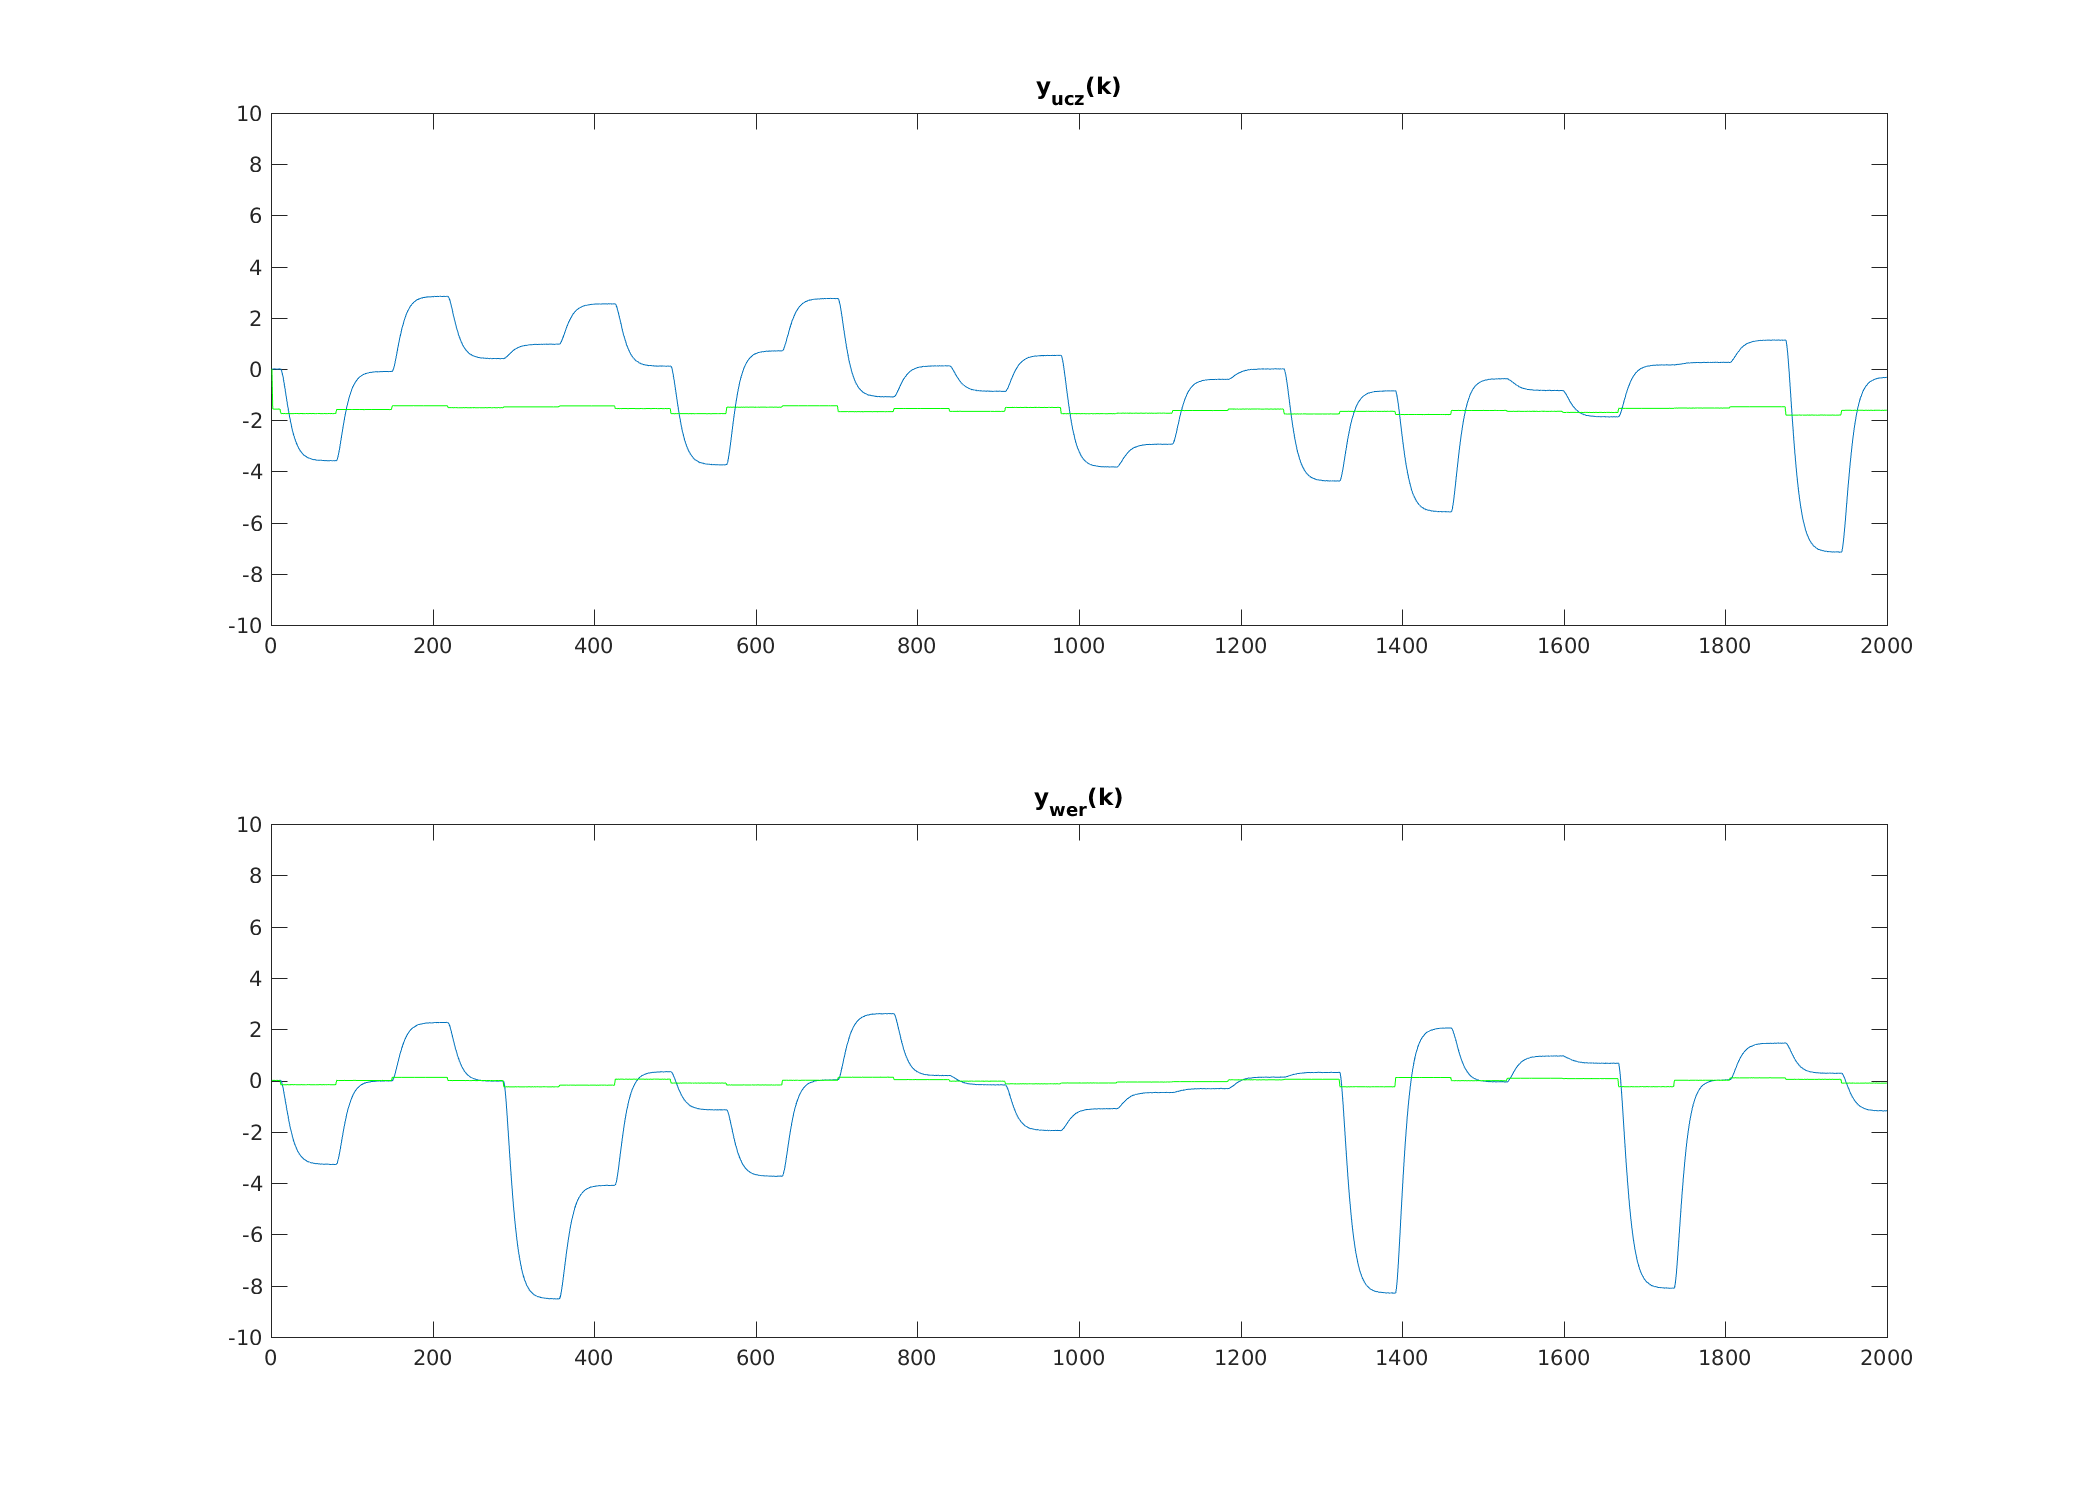
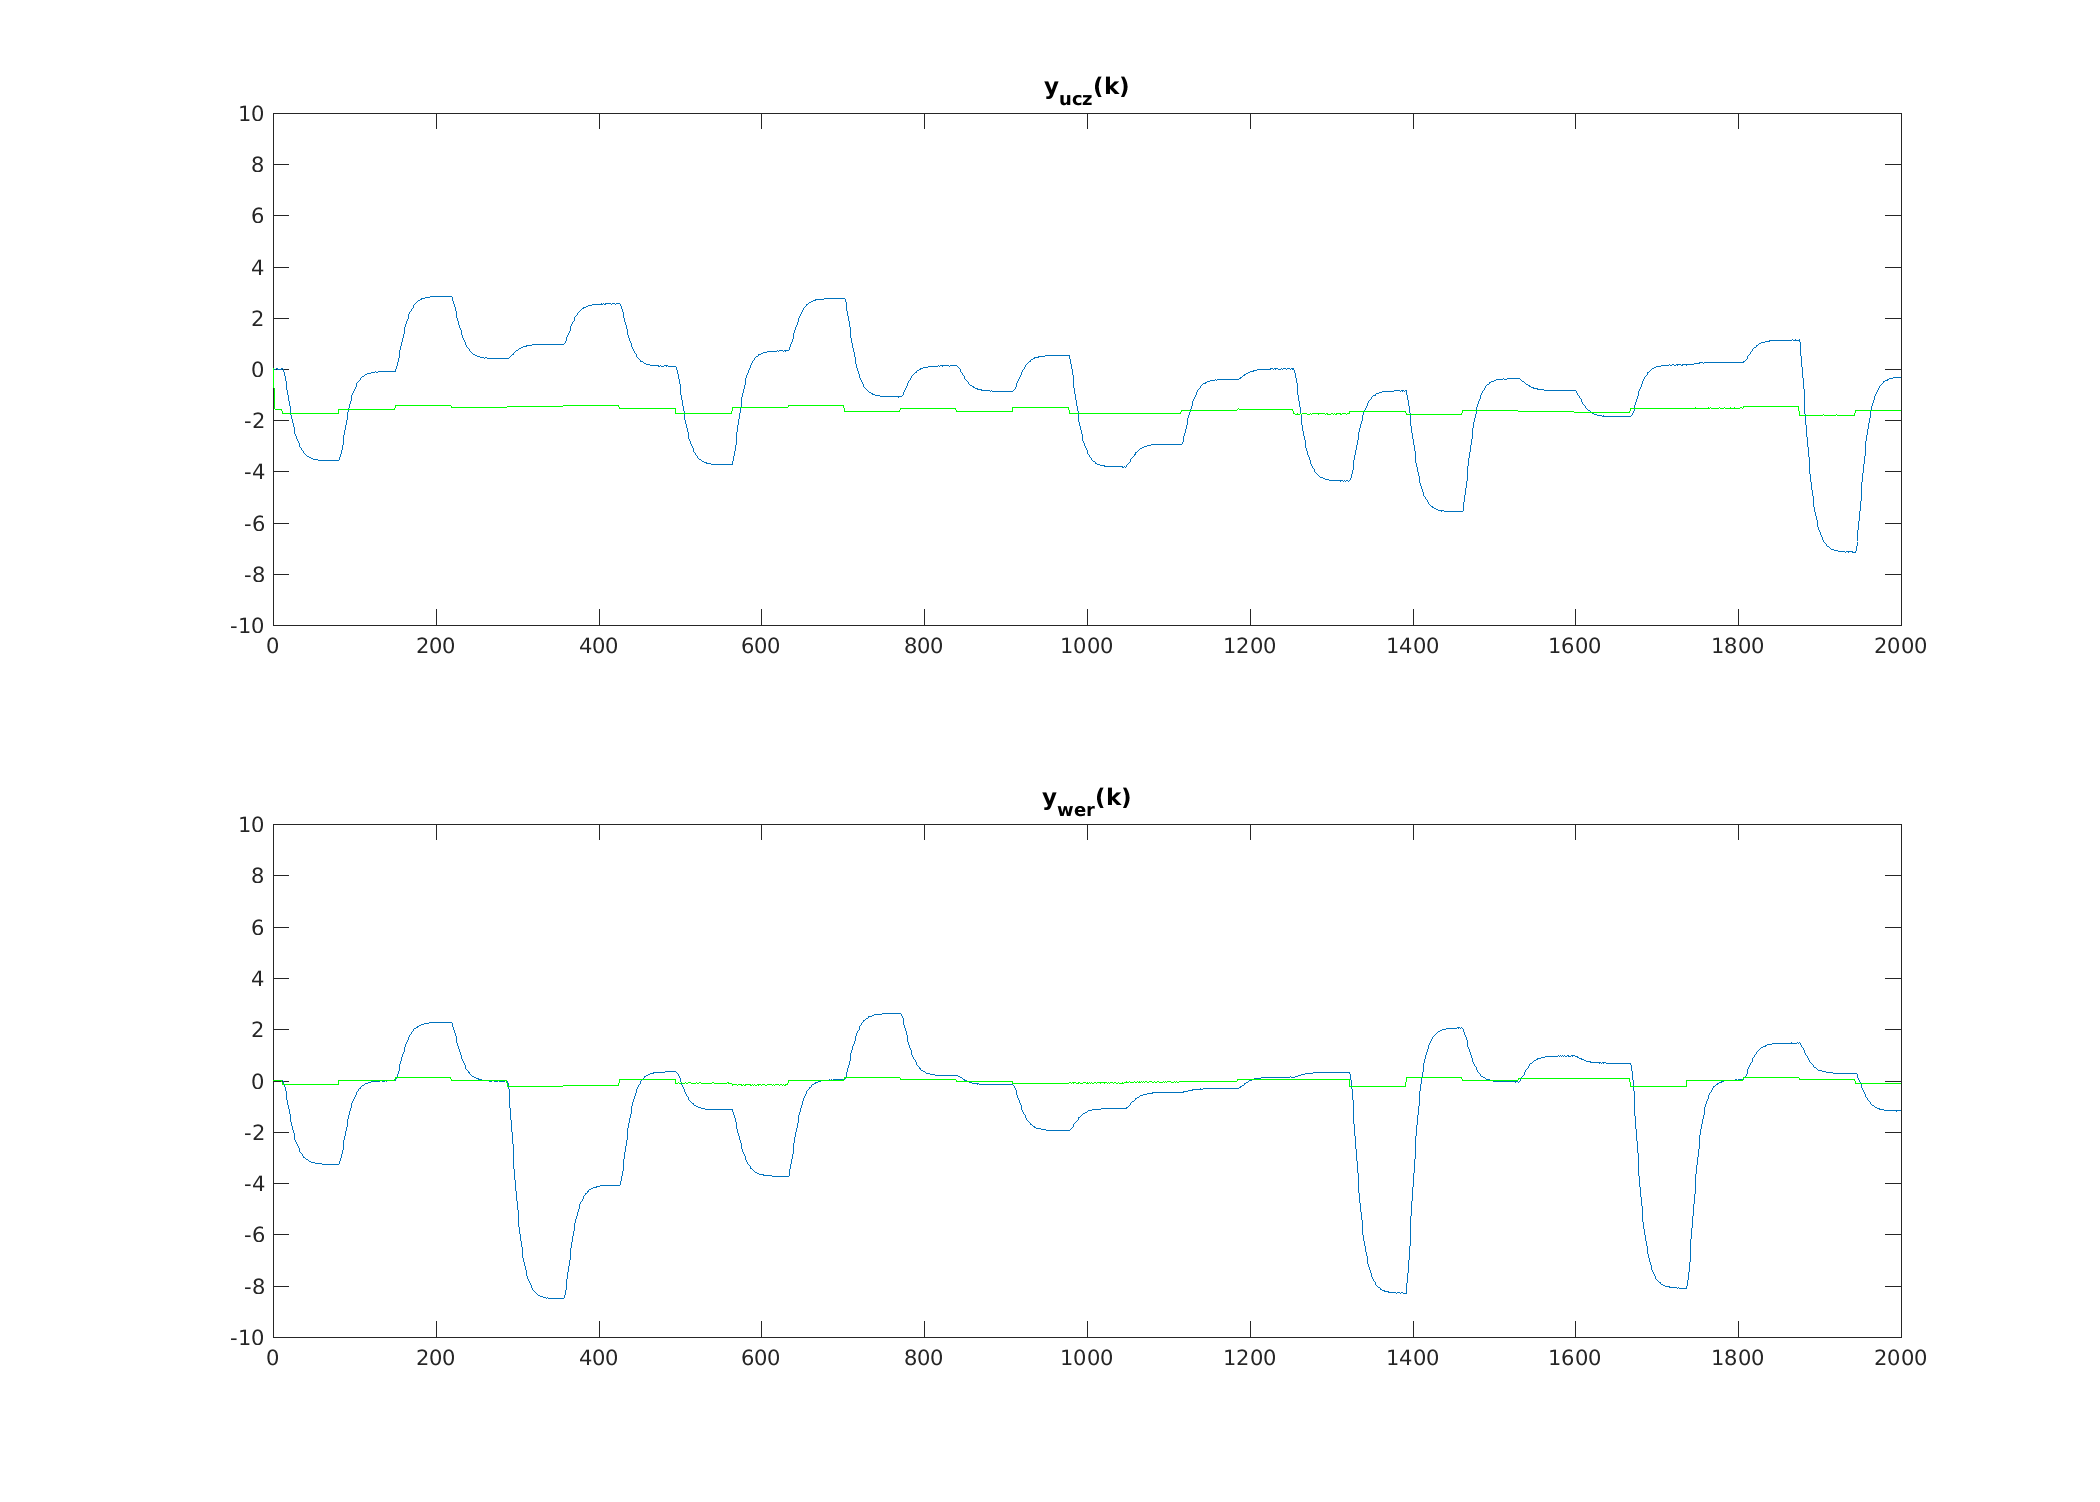
a takie tam krzaczki ale już coś widać

Changed region(s): [[0.3431, 0.8881, 0.3743, 0.9188]]

diff --git a/2/napalowo.m b/2/napalowo.m
@@ -1,0 +1,76 @@
+%% inicjalizacja
+clear all; 
+x0=10;
+y0=10;
+width=1000;
+height=800;
+fid = fopen('bledy_dyn','w+'); 
+%% import danych
+ucz = importdata('danedynucz9.txt');
+u_ucz = ucz(:,1);
+y_ucz = ucz(:,2);
+wer = importdata('danedynwer9.txt');
+u_wer = wer(:,1);
+y_wer = wer(:,2);
+lenght=size(wer);
+P = lenght(1); %liczba próbek
+kk = 1:P;
+%% Modele o różnych stopniach wielomianu
+
+k_pocz = 4; % chwila, od której rozpoczynamy identyfikacje
+
+        ymod_ucz = zeros(P,1);
+        ymod_wer = zeros(P,1);
+        Y = y_ucz(k_pocz:P);
+        ymod_ucz(1:k_pocz) = y_ucz(1:k_pocz);
+        ymod_wer(1:k_pocz) = y_wer(1:k_pocz);
+        D = 3; 
+
+
+
+        %uczenie modelu
+             
+        M(:,:)= [u_ucz(k_pocz-1:P-1) u_ucz(k_pocz-2:P-2) u_ucz(k_pocz-3:P-3) y_ucz(k_pocz-1:P-1) y_ucz(k_pocz-2:P-2) y_ucz(k_pocz-3:P-3)];
+
+        w=M\Y;
+        
+        %rekurencyjnie
+        
+        ymod_ucz = zeros(P-D,1);
+        ymod_wer = zeros(P-D,1); 
+        
+        ymod_ucz(1:D) = u_ucz(1:D);
+        ymod_wer(1:D) = y_wer(1:D);
+
+        past_ucz = zeros(D,1);
+        past_wer = zeros(D,1);
+        
+        for k=D+1:P
+ 
+            m_ucz(1,:) = [u_ucz(k-1) u_ucz(k-2) u_ucz(k-3) past_ucz(1) past_ucz(2) past_ucz(3)];
+            m_wer(1,:) = [u_wer(k-1) u_wer(k-2) u_wer(k-3) past_wer(1) past_wer(2) past_wer(3)];
+            
+            ymod_ucz(k)=m_ucz*w;
+            ymod_wer(k)=m_wer*w;
+            past_ucz = [ymod_ucz(k);past_ucz((1:numel(past_ucz)-1))];
+            past_wer = [ymod_wer(k);past_wer((1:numel(past_wer)-1))];
+        end
+        
+         h = figure;
+        set(h,'units','points','position',[x0,y0,width,height]);
+        subplot(2,1,1)
+        plot(kk,y_ucz)
+        ylim([-10 10])
+        hold on
+        plot(kk,ymod_ucz,'g')
+        ylim([-10 10])
+        title('y_{ucz}(k)');
+        subplot(2,1,2);
+        plot(kk,y_wer)
+        ylim([-10 10])
+        hold on
+        plot(kk,ymod_wer,'g')
+        ylim([-10 10])
+        title('y_{wer}(k)');
+        name =  ['dane_dyn_mod_rek_napalowo_D_' num2str(D) 'N_' num2str(N) '.png'];
+        saveas(h,name,'png');

diff --git a/2/dynamiczne.m b/2/dynamiczne.m
@@ -22,7 +22,7 @@ k_pocz = 4; % chwila, od której rozpoczynamy identyfikacje
 
 for s=3:3
     D = s; 
-    for t=4:4
+    for t=1:1
         N = t; 
         ymod_ucz = zeros(P,1);
         ymod_wer = zeros(P,1);
@@ -32,7 +32,7 @@ for s=3:3
         
 
 
-        % uczenie modelu
+        %uczenie modelu
         c=1; %kolumna
         for i=1:D         
             for j=1:N
@@ -43,9 +43,9 @@ for s=3:3
         end
         w=M\Y;
 
-%         % sprawdzenie modelu
+%         %sprawdzenie modelu
 % 
-%         % bez rekurencji
+%         bez rekurencji
 %         c=1;
 %         for  i=1:D        
 %             for j=1:N
@@ -89,7 +89,7 @@ for s=3:3
         % z rekurencja
         
         ymod_ucz = zeros(P-D,1);
-        ymod_wer = zeros(P-D,1);
+        ymod_wer = zeros(P-D,1); % bez rekurencji
         
         ymod_ucz(1:D) = u_ucz(1:D);
         ymod_wer(1:D) = y_wer(1:D);
@@ -103,7 +103,7 @@ for s=3:3
                     m_ucz(1,c)= u_ucz(k-i)^j;
                     m_ucz(1,c+(N*2))=past_ucz(i)^j;
                     m_wer(1,c)= u_wer(k-i)^j;
-                    m_wer(1,c+(N*2))=y_wer(i)^j;
+                    m_wer(1,c+(N*2))=past_wer(i)^j;
                     c=c+1;
                 end
             end
